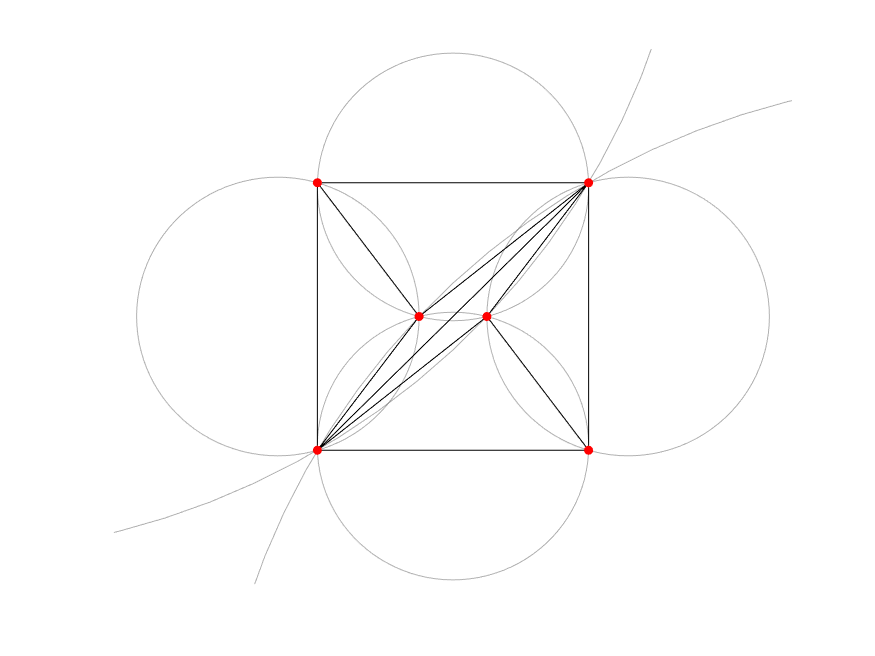
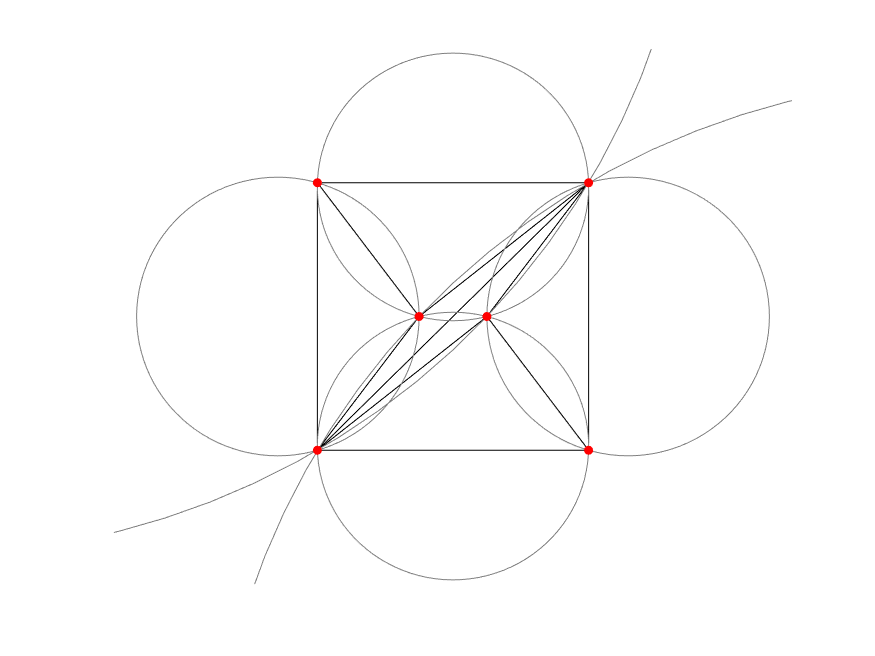
Finalize plots

diff --git a/code/thesis_plots/software/upr_well.m b/code/thesis_plots/software/upr_well.m
@@ -1,0 +1,26 @@
+cellConstraints = {
+    [0.1 0.1; 0.9 0.9], ...
+    [0 0.4; 1 0.6]
+};
+
+G = pebiGrid2D(0.1, [1 1], ...
+    'cellConstraints', cellConstraints ...
+);
+
+axis image off; hold on;
+plotGrid(G, 'faceColor', 'none');
+plot(cellConstraints{1}(:, 1), cellConstraints{1}(:, 2), LineStyle="--", Color="magenta");
+plot(cellConstraints{2}(:, 1), cellConstraints{2}(:, 2), LineStyle="--", Color="magenta");
+exportgraphics(gcf, 'plots/UPR_well.png');
+
+clf;
+axis image off; hold on;
+G = pebiGrid2D(0.1, [1 1], ...
+    'cellConstraints', cellConstraints, ...
+    'protLayer', true, ...
+    'protD', {@(p) ones(size(p,1),1)*resGridSize/2} ...
+);
+plotGrid(G, 'faceColor', 'none');
+plot(cellConstraints{1}(:, 1), cellConstraints{1}(:, 2), LineStyle="--", Color="magenta");
+plot(cellConstraints{2}(:, 1), cellConstraints{2}(:, 2), LineStyle="--", Color="magenta");
+exportgraphics(gcf, 'plots/UPR_well_protLayer.png');

diff --git a/code/thesis_plots/theory/transfinite_grid.m b/code/thesis_plots/theory/transfinite_grid.m
@@ -1,0 +1,42 @@
+X = linspace(0, 1, 10);
+Y = linspace(0, 1, 10);
+plotgrid(X, Y);
+
+axis image off;
+xlim([0 1]);
+ylim([0 1]);
+saveas(gcf, 'plots/transfinite_1.png')
+
+clf;
+X = linspace(0, 1, 10);
+Y = (exp(linspace(0, 3, 10)) - 1);
+Y = Y / max(Y);
+plotgrid(X, Y);
+
+axis image off;
+xlim([0 1]);
+ylim([0 1]);
+saveas(gcf, 'plots/transfinite_2.png')
+
+clf;
+X = (exp(linspace(0, 3, 10)) - 1);
+X = X / max(X);
+Y = exp(linspace(0, 3, 10)) - 1;
+Y = Y / max(Y);
+plotgrid(X, Y);
+
+axis image off;
+xlim([0 1]);
+ylim([0 1]);
+saveas(gcf, 'plots/transfinite_3.png')
+
+
+function plotgrid(X,Y)
+    hold on;
+    for i = 1:length(X)
+        xline(X(i), Color="black", LineWidth=2);
+    end
+    for i = 1:length(Y)
+        yline(Y(i), Color="black", LineWidth=2);
+    end
+end

diff --git a/code/thesis_plots/theory/circumcircle.m b/code/thesis_plots/theory/circumcircle.m
@@ -55,5 +55,5 @@ function h = circle(x,y,r)
     th = 0:pi/50:2*pi;
     xunit = r * cos(th) + x;
     yunit = r * sin(th) + y;
-    h = plot(xunit, yunit, 'Color', [0 0 0 0.3]);
+    h = plot(xunit, yunit, 'Color', [0.5 0.5 0.5]);
 end
